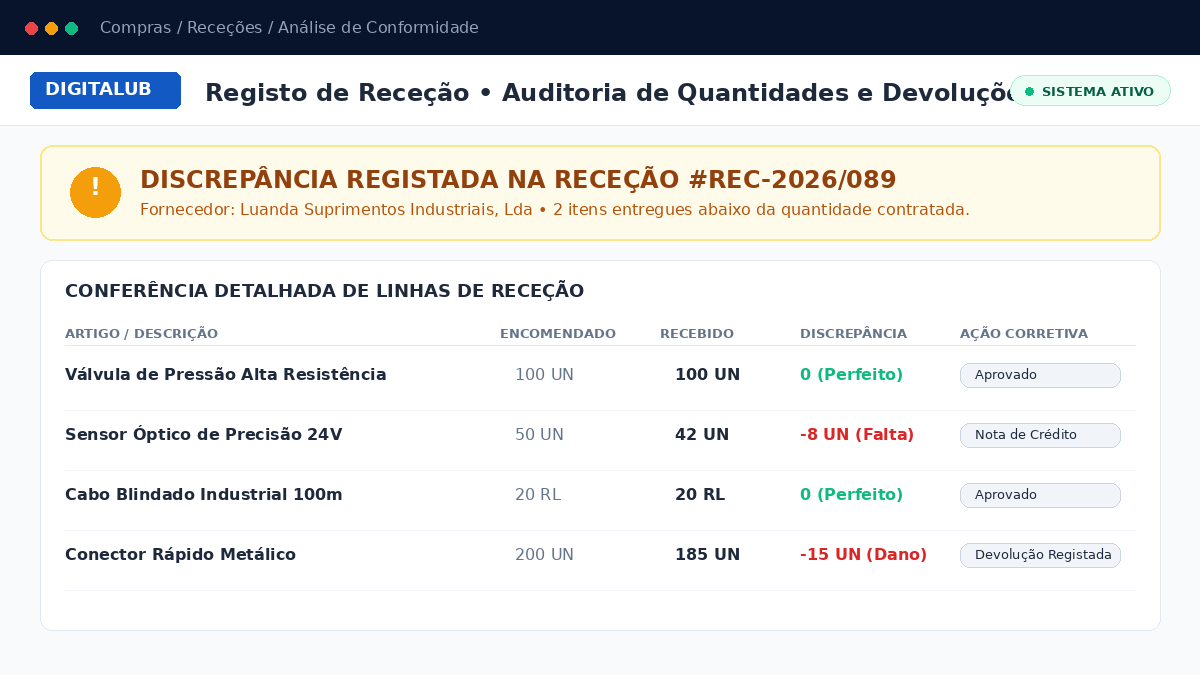
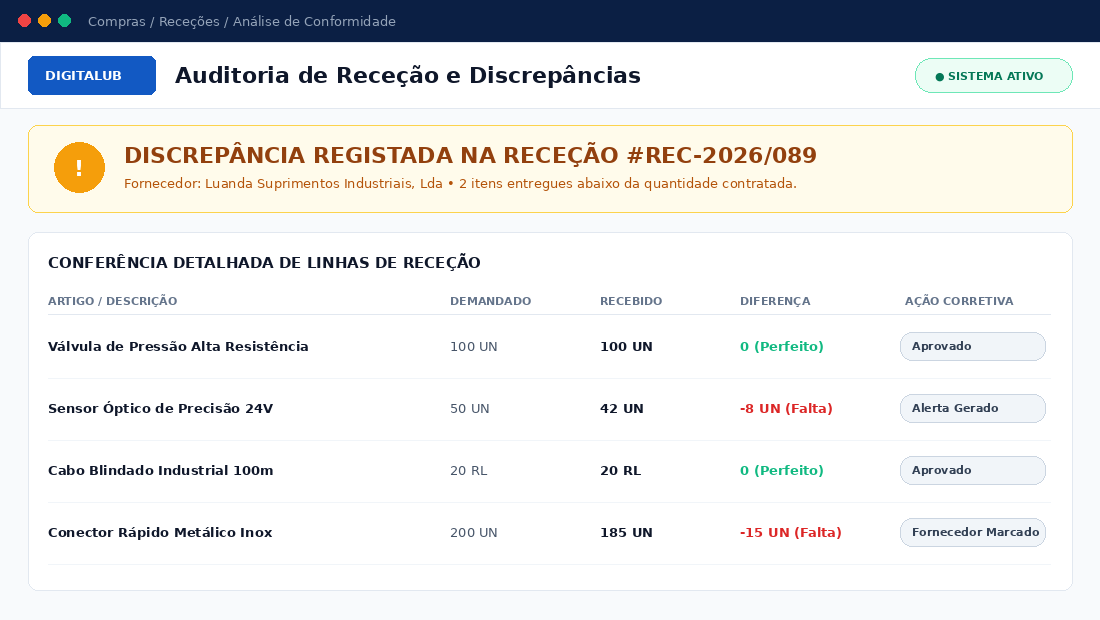
feat(dl_supplier_quality_control): support Odoo 17.0 and improve store screenshots

diff --git a/dl_supplier_quality_control/static/description/index.html b/dl_supplier_quality_control/static/description/index.html
@@ -27,7 +27,7 @@
         
         <!-- Compatibility Badges -->
         <div class="d-flex flex-wrap gap-2 align-items-center">
-          <span class="badge bg-white text-dark px-3 py-2 rounded-pill fw-bold" style="font-size: 0.8rem;">&#10004; Odoo 17.0</span>
+          <span class="badge bg-white text-dark px-3 py-2 rounded-pill fw-bold" style="font-size: 0.8rem;">&#10004; Odoo 15.0 &bull; 16.0 &bull; 17.0 &bull; 18.0 &bull; 19.0 &bull; 20.0</span>
           <span class="badge px-3 py-2 rounded-pill fw-semibold text-white" style="background-color: rgba(255, 255, 255, 0.15); border: 1px solid rgba(255, 255, 255, 0.25); font-size: 0.8rem;">Community &amp; Enterprise</span>
           <span class="badge px-3 py-2 rounded-pill fw-semibold" style="background-color: rgba(16, 185, 129, 0.25); border: 1px solid #10B981; font-size: 0.8rem; color: #A7F3D0;">Plug &amp; Play / Ready for Production</span>
         </div>
@@ -149,7 +149,7 @@
         <tbody>
           <tr style="border-bottom: 1px solid #F1F5F9;">
             <td class="fw-semibold text-secondary py-3" style="width: 32%;">Supported Versions</td>
-            <td class="py-3 text-dark fw-medium">Odoo 17.0 (Community &amp; Enterprise)</td>
+            <td class="py-3 text-dark fw-medium">Odoo 15.0, 16.0, 17.0, 18.0, 19.0, 20.0 (Community &amp; Enterprise)</td>
           </tr>
           <tr style="border-bottom: 1px solid #F1F5F9;">
             <td class="fw-semibold text-secondary py-3">Required Core Modules</td>

diff --git a/dl_supplier_quality_control/models/stock_picking.py b/dl_supplier_quality_control/models/stock_picking.py
@@ -1,37 +1,34 @@
+# -*- coding: utf-8 -*-
 from odoo import models, fields, api
 from datetime import timedelta
+
 
 class StockPicking(models.Model):
     _inherit = 'stock.picking'
 
     def _action_done(self):
-        # 1. Executa a validação normal do Odoo (move o stock)
         res = super(StockPicking, self)._action_done()
-        
-        # 2. Pós-processamento para Controlo de Qualidade do Fornecedor
         for picking in self:
-            # Só analisa se for uma Entrada (Receção) e se tiver um Fornecedor associado
             if picking.picking_type_code == 'incoming' and picking.partner_id:
                 self._process_supplier_quality(picking)
-        
         return res
 
     def _process_supplier_quality(self, picking):
         history_obj = self.env['supplier.delivery.history']
-        
-        # A. Criar o Registo de Histórico para cada produto recebido
-        for move in picking.move_ids.filtered(lambda m: m.state == 'done'):
+        moves = getattr(picking, 'move_ids', getattr(picking, 'move_ids_without_package', self.env['stock.move']))
+
+        for move in moves.filtered(lambda m: m.state == 'done'):
+            done_qty = getattr(move, 'quantity', getattr(move, 'quantity_done', 0.0))
             history_obj.create({
                 'partner_id': picking.partner_id.id,
                 'product_id': move.product_id.id,
                 'picking_id': picking.id,
-                'purchase_id': picking.purchase_id.id if picking.purchase_id else False,
+                'purchase_id': picking.purchase_id.id if getattr(picking, 'purchase_id', False) else False,
                 'date_done': picking.date_done or fields.Datetime.now(),
                 'qty_demanded': move.product_uom_qty,
-                'qty_received': move.quantity,
+                'qty_received': done_qty,
             })
-            
-        # B. Avaliar o Fornecedor contra as Regras de Qualidade
+
         self._evaluate_quality_rules(picking.partner_id)
 
     def _evaluate_quality_rules(self, partner):
@@ -43,42 +40,29 @@ class StockPicking(models.Model):
         now = fields.Datetime.now()
 
         for rule in rules:
-            # Calcular o limite de data (ex: últimos 30 dias)
             date_limit = now - timedelta(days=rule.period_days)
-            
-            # Preparar o domínio de pesquisa base
             domain_failures = [
                 ('partner_id', '=', partner.id),
                 ('is_incomplete', '=', True),
                 ('date_done', '>=', date_limit)
             ]
-            
-            # Se a regra restringe a produtos críticos, adiciona condição
+
             if rule.only_critical_products:
                 domain_failures.append(('product_id.product_tmpl_id.is_critical_for_supplier', '=', True))
-            
-            # Contar quantas entregas falharam neste período
-            failures_count = history_obj.search_count(domain_failures)
 
-            # Obter a taxa de cumprimento geral do fornecedor
+            failures_count = history_obj.search_count(domain_failures)
             compliance_rate = partner.delivery_compliance_rate
 
-            # Verificar se violou as regras
             if failures_count >= rule.min_incomplete_deliveries or compliance_rate < rule.min_compliance_rate:
-                
-                # Ação 1: Marcar visualmente o fornecedor (se ainda não estiver marcado)
                 if rule.action_mark_supplier and not partner.is_frequent_failer:
                     partner.is_frequent_failer = True
-                
-                # Ação 2: Gerar Notificações / Atividades Internas
                 self._create_rule_alerts(rule, partner, failures_count, compliance_rate)
 
     def _create_rule_alerts(self, rule, partner, failures, compliance):
         if not rule.notify_user_ids:
             return
-        
-        # Prepara a mensagem de alerta
-        summary = f"🚨 Alerta de Qualidade: Fornecedor {partner.name}"
+
+        summary = f"Alerta de Qualidade: Fornecedor {partner.name}"
         note = f"""
             <p>O fornecedor <b>{partner.name}</b> atingiu os critérios de falha da regra <b>{rule.name}</b>.</p>
             <ul>
@@ -87,14 +71,19 @@ class StockPicking(models.Model):
             </ul>
             <p>Por favor, reveja as ordens de compra e o histórico deste fornecedor.</p>
         """
-        
-        # Adiciona uma "Atividade" (To-Do / Tarefa) para cada utilizador configurado na regra
+
+        ir_model = self.env['ir.model']
+        res_model_id = ir_model._get_id('res.partner') if hasattr(ir_model, '_get_id') else ir_model._get('res.partner').id
+        todo_type = self.env.ref('mail.mail_activity_data_todo', raise_if_not_found=False)
+
         for user in rule.notify_user_ids:
-            self.env['mail.activity'].create({
+            vals = {
                 'res_id': partner.id,
-                'res_model_id': self.env['ir.model']._get('res.partner').id,
-                'activity_type_id': self.env.ref('mail.mail_activity_data_todo').id,
+                'res_model_id': res_model_id,
                 'summary': summary,
                 'note': note,
                 'user_id': user.id,
-            })
+            }
+            if todo_type:
+                vals['activity_type_id'] = todo_type.id
+            self.env['mail.activity'].create(vals)

diff --git a/dl_supplier_quality_control/__manifest__.py b/dl_supplier_quality_control/__manifest__.py
@@ -1,11 +1,11 @@
 # -*- coding: utf-8 -*-
 {
     'name': 'Supplier Quality Control & Vendor Evaluation',
-    'version': '17.0.1.0.7',
+    'version': '17.0.1.0.8',
     'category': 'Inventory/Purchases',
     'summary': 'Automated Inspection Points, Vendor Rating Matrix, Delivery Discrepancy Tracking & Defect Management',
     'description': """
-        Advanced Supplier Quality Control & Vendor Performance Rating for Odoo 17 Community & Enterprise.
+        Advanced Supplier Quality Control & Vendor Performance Rating for Odoo 15, 16, 17, 18, 19 & 20 (Community & Enterprise).
         Key Features:
         - Automated comparison of ordered vs. received quantities on warehouse receipts.
         - Dynamic Vendor Rating calculation based on fulfillment accuracy and return rates.
@@ -18,16 +18,13 @@
     'website': 'https://www.digitalub.ao',
     'support': 'suporte@digitalub.ao',
     'license': 'OPL-1',
-
-    # Configuração de Preço
     'price': 79.0,
     'currency': 'USD',
-
     'depends': [
-        'base', 
-        'stock', 
-        'purchase', 
-        'purchase_stock', 
+        'base',
+        'stock',
+        'purchase',
+        'purchase_stock',
         'mail'
     ],
     'data': [
@@ -40,12 +37,12 @@
         'views/stock_picking_report_views.xml',
         'views/product_template_views.xml',
     ],
-    
-    # Imagens de destaque na Loja Odoo
     'images': [
         'static/description/banner.png',
+        'static/description/step1_quality_rules.png',
+        'static/description/step2_delivery_check.png',
+        'static/description/step3_vendor_rating.png',
     ],
-    
     'installable': True,
     'application': False,
     'auto_install': False,

diff --git a/dl_supplier_quality_control/models/res_partner.py b/dl_supplier_quality_control/models/res_partner.py
@@ -1,15 +1,17 @@
+# -*- coding: utf-8 -*-
 from odoo import models, fields, api
+
 
 class ResPartner(models.Model):
     _inherit = 'res.partner'
 
     is_frequent_failer = fields.Boolean(
-        string='Falhas Recorrentes de Entrega', 
+        string='Falhas Recorrentes de Entrega',
         default=False,
         help="Marcado automaticamente se o fornecedor quebrar as regras de qualidade."
     )
     delivery_compliance_rate = fields.Float(
-        string='Taxa Global de Cumprimento (%)', 
+        string='Taxa Global de Cumprimento (%)',
         compute='_compute_compliance_rate'
     )
 
@@ -25,3 +27,10 @@ class ResPartner(models.Model):
                     partner.delivery_compliance_rate = 100.0
             else:
                 partner.delivery_compliance_rate = 100.0
+
+    def action_view_supplier_deliveries(self):
+        self.ensure_one()
+        action = self.env.ref('dl_supplier_quality_control.action_supplier_delivery_history').read()[0]
+        action['domain'] = [('partner_id', '=', self.id)]
+        action['context'] = {'default_partner_id': self.id}
+        return action

diff --git a/dl_supplier_quality_control/models/stock_move.py b/dl_supplier_quality_control/models/stock_move.py
@@ -1,4 +1,6 @@
+# -*- coding: utf-8 -*-
 from odoo import models, fields, api
+
 
 class StockMove(models.Model):
     _inherit = 'stock.move'
@@ -13,9 +15,8 @@ class StockMove(models.Model):
     @api.depends('product_uom_qty', 'quantity', 'picking_id.picking_type_code')
     def _compute_qty_difference(self):
         for move in self:
-            # Só fazemos este cálculo para Receções (incoming)
             if move.picking_id.picking_type_code == 'incoming':
-                # Odoo 17 usa 'quantity' para o que foi feito, e 'product_uom_qty' para a demanda
-                move.qty_difference = move.quantity - move.product_uom_qty
+                done_qty = getattr(move, 'quantity', getattr(move, 'quantity_done', 0.0))
+                move.qty_difference = done_qty - move.product_uom_qty
             else:
                 move.qty_difference = 0.0
